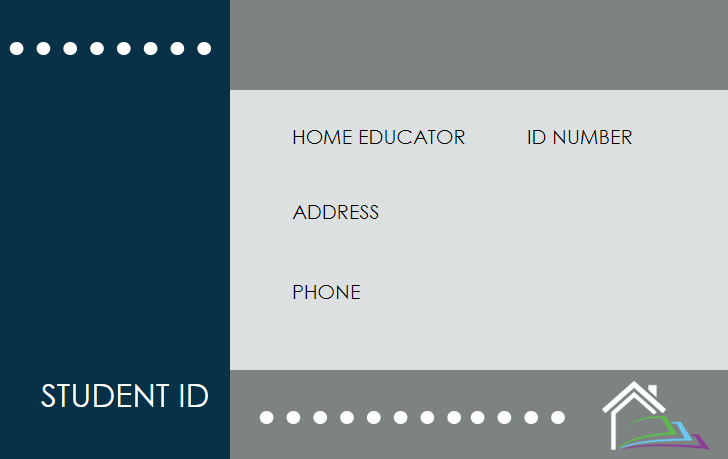
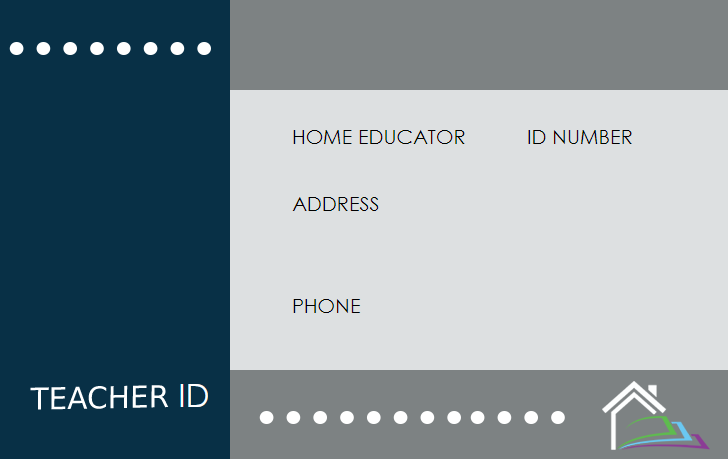
print page changes

Changed region(s): [[0.0302, 0.8235, 0.2418, 0.915], [0.3929, 0.61, 0.5137, 0.7015], [0.3929, 0.427, 0.544, 0.488]]

diff --git a/public/js/page/id-card.js b/public/js/page/id-card.js
@@ -158,7 +158,7 @@ $(document).ready(function() {
 	                		}
 
 	                		$('.teacher_name_card').text(result.data.teacher_name);
-	                		$('.address_card').text(address1+' '+address2+', '+city);
+	                		$('.address_card').text(address1+' '+address2+' '+city);
 	                		$('.phone_card').text(result.data.phone_number);
 	                	}
 

diff --git a/resources/views/id_card/print_card.blade.php b/resources/views/id_card/print_card.blade.php
@@ -22,29 +22,37 @@
 	<script src="{{ asset('card/js/bootstrap.min.js') }}"></script>
 </head>
 <body class="custom-body" style="font-family: 'CenturyGothic', sans-serif !important; font-weight: 400 !important; font-size: 16px !important; line-height: 20px !important;">
-	<div id="body-main-div" style="width: 724px !important;">
+	<div id="body-main-div">
 		@if ($data->card_type == 1)
-			<img src="{{ asset('card/img/card-bg-student.png') }}" />
+			<img src="{{ asset('card/img/card-bg-student.png') }}" style="width: 32%;">
 		@else
-			<img src="{{ asset('card/img/card-bg-teacher.png') }}" />
+			<img src="{{ asset('card/img/card-bg-teacher.png') }}" style="width: 32%;">
 		@endif
 
-		<p style="position: absolute !important; left: 245px !important; top:34px !important; font-size: 30px !important; color: #fff !important; text-align: center; !important; line-height: 20px !important; width: 455px !important;"><span>{{ $data->school_name }}</span></p>
+		<p style="position: absolute !important; left: 151px !important; top:19px !important; font-size: 19px !important; color: #fff !important; text-align: center !important; line-height: 20px !important; width: 272px !important;"><span>{{ $data->school_name }}</span></p>
 
-		<img src="{{ asset('uploads/idcard_photo/'.$data->display_photo) }}" style="height: 245px !important; position: absolute !important; left: 45px !important; top:105px !important; width: 220px !important;">
+		<img src="{{ asset('uploads/idcard_photo/'.$data->display_photo) }}" style="height: 141px !important; position: absolute !important; left: 27px !important; top:67px !important; width: 125px !important;">
 
-		<p style="position: absolute !important; left: 289px !important; top:155px !important; font-weight: 700 !important; font-size: 20px !important;">@if ($data->card_type == 1) {{ $data->student_name }} @else {{ $data->teacher_name }} @endif</p>
-
-		<p style="position: absolute !important; left: 289px !important; top:231px !important; font-weight: 700 !important; font-size: 20px !important; width: 410px !important;">@if ($data->card_type == 1) {{ $data->dob }} @else {{ $data->address1 }} {{ $data->address2 }}, {{ $data->city }} @endif</p>
-
-		<p style="position: absolute !important; left: 289px !important; top:307px !important; font-weight: 700 !important; font-size: 20px !important;">@if ($data->card_type == 1) {{ $data->teacher_name }} @else {{ $data->phone_number }} @endif</p>
-
-		<p style="position: absolute !important; left: 525px !important; top:154px !important; font-weight: 700 !important; font-size: 20px !important;">{{ $data->id_number }}</p>
-
-		<p style="position: absolute !important; left: 42px !important; top: 420px !important; font-size: 28px !important; text-align: center !important; color: #fff !important; line-height: 20px;">{{ $data->school_year }}</p>
+		<p style="position: absolute !important; left: 174px !important; top:87px !important; font-weight: 700 !important; font-size: 13px !important;">@if ($data->card_type == 1) {{ $data->student_name }} @else {{ $data->teacher_name }} @endif</p>
 
 		@if ($data->card_type == 1)
-			<p style="position: absolute !important; left: 527px !important; top:246px !important; font-weight: 700 !important; font-size: 64px !important; line-height: 50px !important; text-transform: uppercase !important; display: block !important; text-align: center !important; padding: 5px 0 !important; width: 76px !important;"><span>{{ $data->student_grade }}</span></p>
+			<p style="position: absolute !important; left: 174px !important; top:136px !important; font-weight: 700 !important; font-size: 13px !important; width: 410px !important; line-height: 14px;">{{ $data->dob }}</p>
+		@else
+			<p style="position: absolute !important; left: 174px !important; top:127px !important; font-weight: 700 !important; font-size: 13px !important; width: 410px !important; line-height: 14px;">{{ $data->address1 }} <br> {{ $data->address2 }} <br> {{ $data->city }}</p>
+		@endif
+
+		@if ($data->card_type == 1)
+			<p style="position: absolute !important; left: 174px !important; top:178px !important; font-weight: 700 !important; font-size: 13px !important;">{{ $data->teacher_name }}</p>
+		@else
+			<p style="position: absolute !important; left: 174px !important; top:187px !important; font-weight: 700 !important; font-size: 13px !important;">{{ $data->phone_number }}</p>
+		@endif
+
+		<p style="position: absolute !important; left: 316px !important; top:87px !important; font-weight: 700 !important; font-size: 13px !important;">{{ $data->id_number }}</p>
+
+		<p style="position: absolute !important; left: 23px !important; top: 247px !important; font-size: 18px !important; text-align: center !important; color: #fff !important; line-height: 20px;">{{ $data->school_year }}</p>
+
+		@if ($data->card_type == 1)
+			<p style="position: absolute !important; left: 318px !important; top:137px !important; font-weight: 700 !important; font-size: 35px !important; line-height: 50px !important; text-transform: uppercase !important; display: block !important; text-align: center !important; padding: 5px 0 !important; width: 46px !important;"><span>{{ $data->student_grade }}</span></p>
 		@endif
 	</div>
 

diff --git a/resources/views/id_card/id_card.blade.php b/resources/views/id_card/id_card.blade.php
@@ -96,7 +96,7 @@
 																	<p class="student_name_card">Arianna Henry</p>
 																</div>
 
-																<div class="text-field hide_for_student">
+																<div class="text-field hide_for_student" style="margin-bottom: 16px !important;">
 																	<span class="label">HOME EDUCATOR</span>
 																	<p class="teacher_name_card">Sarah Miller</p>
 																</div>
@@ -106,9 +106,9 @@
 																	<p class="dob_card">02/03/2014</p>
 																</div>
 
-																<div class="text-field hide_for_student">
+																<div class="text-field hide_for_student" style="margin-bottom: 37px !important;">
 																	<span class="label">ADDRESS</span>
-																	<p class="address_card" style="width: 200%; overflow: unset;">1296 Farmton Lane Hills, NY 63251</p>
+																	<p class="address_card" style="width: 200%; overflow: unset;">1296 <br> Farmton Lane Hills <br> NY 63251</p>
 																</div>
 
 																<div class="text-field mb0 hide_for_teacher">
@@ -143,7 +143,8 @@
 
 												<div class="bottom">
 													<div class="bleft">
-														<span>STUDENT ID</span>
+														<span class="student_id_card hide_for_teacher">STUDENT ID</span>
+														<span class="teacher_id_card hide_for_student" style="margin-bottom: 3px !important;">TEACHER ID</span>
 														<span class="year_card">2022 - 2023</span>
 													</div>
 
